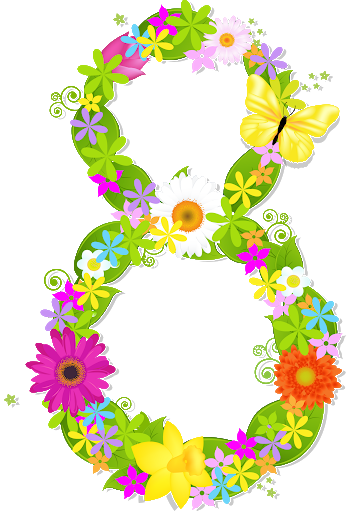
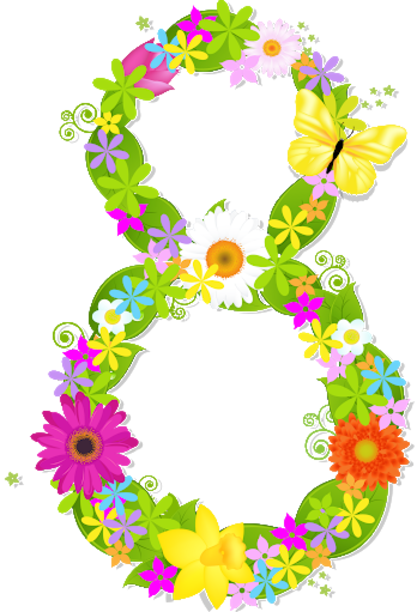
Version 1.0, programm works

diff --git a/main.py b/main.py
@@ -1,17 +1,49 @@
 import pygame
 from pygame.locals import *
-
+import set_classes as set
 pygame.init()
 screen = pygame.display.set_mode((0, 0), flags=pygame.FULLSCREEN)
 pygame.display.set_caption('Happy Women\'s day')
 clock = pygame.time.Clock()
 
+SCREEN_WIDTH, SCREEN_HEIGHT = screen.get_size()
+
 icon = pygame.image.load('pics/icon.ico')
 background = pygame.image.load('pics/background.png').convert_alpha()
-eight_orig = pygame.image.load('pics/eight_res.png').convert_alpha()
+eight_orig = pygame.image.load('pics/eight.png').convert_alpha()
 text_1 = pygame.image.load("pics/text_1.png").convert_alpha()
 text_2 = pygame.image.load("pics/text_2.png").convert_alpha()
 text_3 = pygame.image.load("pics/text_3.png").convert_alpha()
+
+flower_1 = set.Flowers('pics/flws/yellow.png', SCREEN_WIDTH, SCREEN_HEIGHT)
+flower_2 = set.Flowers('pics/flws/camomile.png', SCREEN_WIDTH, SCREEN_HEIGHT)
+flower_3 = set.Flowers('pics/flws/orange.png', SCREEN_WIDTH, SCREEN_HEIGHT)
+flower_4 = set.Flowers('pics/flws/crocus.png', SCREEN_WIDTH, SCREEN_HEIGHT)
+flower_5 = set.Flowers('pics/flws/pink.png', SCREEN_WIDTH, SCREEN_HEIGHT)
+flower_6 = set.Flowers('pics/flws/purple.png', SCREEN_WIDTH, SCREEN_HEIGHT)
+flower_7 = set.Flowers('pics/flws/white.png', SCREEN_WIDTH, SCREEN_HEIGHT)
+flower_8 = set.Flowers('pics/flws/yellow-orange.png', SCREEN_WIDTH, SCREEN_HEIGHT)
+flower_9 = set.Flowers('pics/flws/red.png', SCREEN_WIDTH, SCREEN_HEIGHT)
+flower_10 = set.Flowers('pics/flws/rose.png', SCREEN_WIDTH, SCREEN_HEIGHT)
+flower_11 = set.Flowers('pics/flws/violete.png', SCREEN_WIDTH, SCREEN_HEIGHT)
+flower_12 = set.Flowers('pics/flws/yellow.png', SCREEN_WIDTH, SCREEN_HEIGHT)
+flower_13 = set.Flowers('pics/flws/camomile.png', SCREEN_WIDTH, SCREEN_HEIGHT)
+flower_14 = set.Flowers('pics/flws/orange.png', SCREEN_WIDTH, SCREEN_HEIGHT)
+flower_15 = set.Flowers('pics/flws/crocus.png', SCREEN_WIDTH, SCREEN_HEIGHT)
+flower_16 = set.Flowers('pics/flws/pink.png', SCREEN_WIDTH, SCREEN_HEIGHT)
+flower_17 = set.Flowers('pics/flws/purple.png', SCREEN_WIDTH, SCREEN_HEIGHT)
+flower_18 = set.Flowers('pics/flws/white.png', SCREEN_WIDTH, SCREEN_HEIGHT)
+flower_19 = set.Flowers('pics/flws/yellow-orange.png', SCREEN_WIDTH, SCREEN_HEIGHT)
+flower_20 = set.Flowers('pics/flws/red.png', SCREEN_WIDTH, SCREEN_HEIGHT)
+flower_21 = set.Flowers('pics/flws/rose.png', SCREEN_WIDTH, SCREEN_HEIGHT)
+flower_22 = set.Flowers('pics/flws/violete.png', SCREEN_WIDTH, SCREEN_HEIGHT)
+
+flowers = pygame.sprite.Group()
+flowers.add(flower_1, flower_2, flower_3, flower_4, flower_5, flower_6,
+            flower_7, flower_8, flower_9, flower_10, flower_11,
+            flower_12, flower_13, flower_14, flower_15, flower_16, flower_17,
+            flower_18, flower_19, flower_20, flower_21, flower_22
+            )
 
 pygame.display.set_icon(icon)
 rect_bg = background.get_rect()
@@ -20,7 +52,6 @@ rect_T0 = text_1.get_rect()
 rect_T1 = text_2.get_rect()
 rect_T2 = text_3.get_rect()
 
-SCREEN_WIDTH, SCREEN_HEIGHT = screen.get_size()
 colors = {'White': [255, 255, 255],
           'Black': [34, 34, 34],
           'CWhite': [255, 235, 255]}
@@ -48,10 +79,14 @@ screen.fill(colors['White'])
 y_0 = SCREEN_HEIGHT + 250
 y_1 = SCREEN_HEIGHT + 600
 y_2 = SCREEN_HEIGHT + 850
-
+visibility_1 = True
+visibility_2 = True
+visibility_3 = True
 while state:
     clock.tick(FPS)
+    flower_1.update()
     screen.blit(background, rect_bg)
+
     for event in pygame.event.get():
         if (event.type == pygame.locals.KEYDOWN) and (event.key == K_ESCAPE) or (event.type == pygame.QUIT):
             state = False
@@ -72,7 +107,7 @@ while state:
         rect.center = old_center
         screen.blit(new_eight, rect)
         if not rotation_flag:
-            if rect.bottom > -300:
+            if rect.bottom > -0:
                 HEIGHT_CENTER -= 5
                 rect.center = WIDTH_CENTER, HEIGHT_CENTER
             else:
@@ -82,7 +117,7 @@ while state:
         rect = eight_orig.get_rect()
         rect.center = SCREEN_WIDTH // 2, SCREEN_HEIGHT // 2
         screen.blit(eight_orig, rect)
-    else:
+    elif visibility_1 or visibility_2 or visibility_3:
         if y_0 > T_Y_finish[0]:
             y_0 -= 10
             rect_T0.center = (SCREEN_WIDTH // 2, y_0)
@@ -90,7 +125,7 @@ while state:
             pos_state_0 = True
         if pos_state_0:
             if rect_T1.top > SCREEN_HEIGHT:
-                y_1 -= 1
+                y_1 -= 3
                 rect_T1.center = (SCREEN_WIDTH // 2, y_1)
             elif y_1 > T_Y_finish[1]:
                 y_1 -= 12
@@ -98,15 +133,27 @@ while state:
             else:
                 pos_state_1 = True
         if pos_state_1:
+            visibility_1 = False
             if rect_T2.top > SCREEN_HEIGHT:
-                y_2 -= 3
+                y_2 -= 7
                 rect_T2.center = (SCREEN_WIDTH // 2, y_2)
-            elif y_2 > T_Y_finish[2]:
+            elif y_2 > -100:
                 y_2 -= 12
                 rect_T2.center = (SCREEN_WIDTH // 2, y_2)
-        screen.blit(text_1, rect_T0)
-        screen.blit(text_2, rect_T1)
-        screen.blit(text_3, rect_T2)
+                if y_2 > T_Y_finish[2] - 200:
+                    visibility_2 = False
+            else: visibility_3 = False
+        if visibility_1:
+            screen.blit(text_1, rect_T0)
+        if visibility_2:
+            screen.blit(text_2, rect_T1)
+        if visibility_3:
+            screen.blit(text_3, rect_T2)
+    else:
+        flowers.update()
+        flowers.draw(screen)
+        flowers.update()
+        flowers.draw(screen)
     pygame.display.flip()
 
 pygame.quit()

diff --git a/set_classes.py b/set_classes.py
@@ -1,0 +1,42 @@
+import pygame
+import random
+
+
+class Flowers(pygame.sprite.Sprite):
+    def update(self):
+        self.rect.y += self.speed
+        self.rect.x += self.speed_x
+        self.rotate()
+        if self.rect.top > self.height + 10:
+            self.rect.x = random.randrange(self.width - self.rect.width)
+            self.rect.y = random.randrange(-200 - self.size, -self.size)
+            self.speed = random.randrange(1, 4)
+
+    def rotate(self):
+        now = pygame.time.get_ticks()
+        if now - self.last_update > 50:
+            self.last_update = now
+            self.rot = (self.rot + self.rot_speed) % 360
+            new_image = pygame.transform.rotate(self.image_orig, self.rot)
+            old_center = self.rect.center
+            self.image = new_image
+            self.rect = self.image.get_rect()
+            self.rect.center = old_center
+
+    def __init__(self, file, width, height):
+        pygame.sprite.Sprite.__init__(self)
+        self.dir = file
+        self.size = random.randint(200, 300)
+        self.width, self.height = width, height
+        self.image_orig = pygame.image.load(file).convert_alpha()
+        self.image_orig = pygame.transform.scale(self.image_orig, (self.size, self.size))
+        self.image = self.image_orig.copy()
+        self.image = pygame.transform.scale(self.image, (self.size, self.size))
+        self.rect = self.image.get_rect()
+        self.rect.x = random.randrange(width - self.rect.width)
+        self.rect.y = random.randrange(-200 - self.size, -self.size)
+        self.speed = random.randrange(1, 10)
+        self.speed_x = self.speed * random.uniform(-0.5, 0.5)
+        self.rot = 0
+        self.rot_speed = random.randrange(-2, 2)
+        self.last_update = pygame.time.get_ticks()
